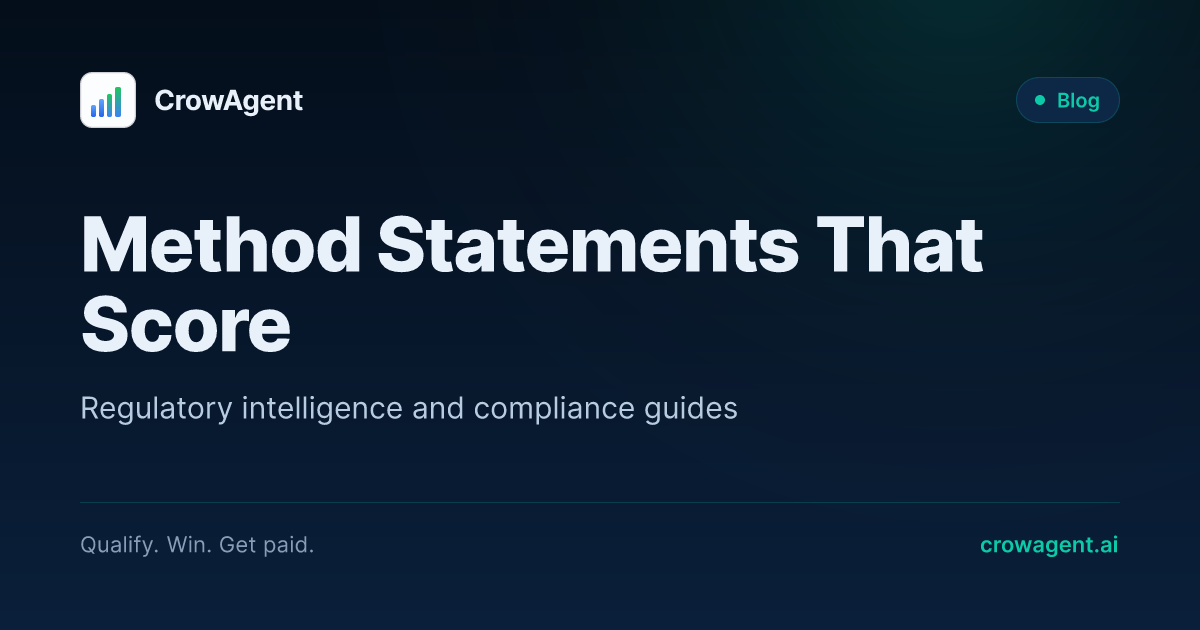
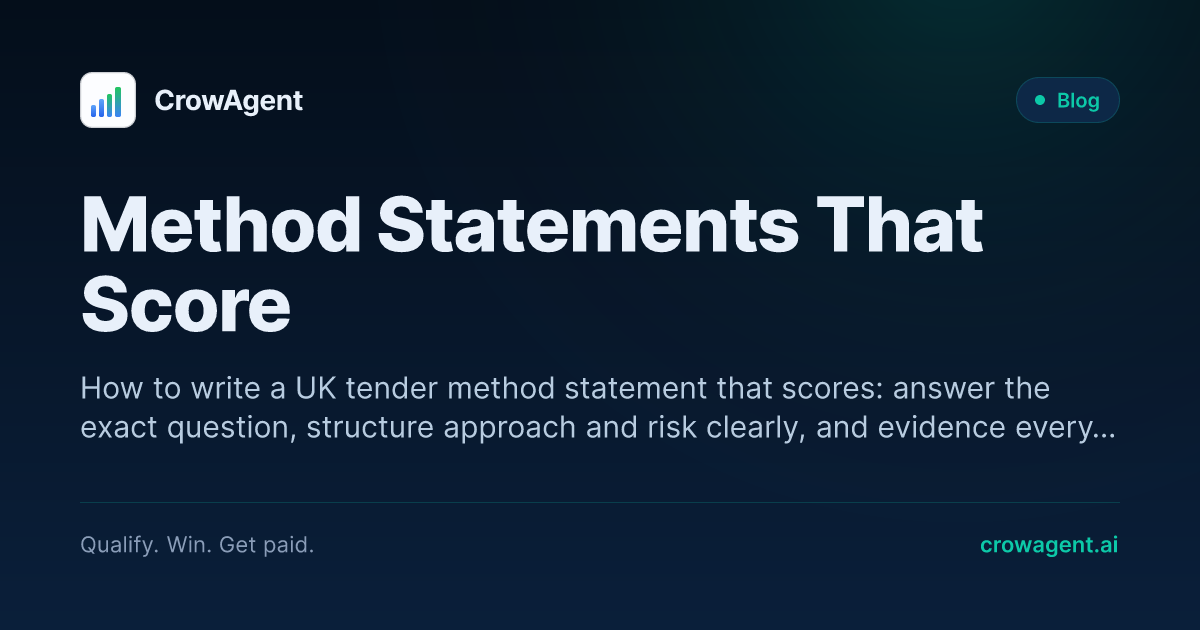
fix(seo): 8 blog cards shared one generic subtitle; 7 pages ignored their own card
Three defects, all in how OG cards are wired to pages.

1. Attribute order broke description extraction on every blog post.
   extractMetaDescription() required `name="description"` immediately followed
   by `content="…"`. All eight blog posts write content first
   (`<meta content="…" name="description">`), so extraction failed on all eight
   and each card fell back to the same line: "Regulatory intelligence and
   compliance guides". Eight posts, eight topics, one identical subtitle.
   Attribute order is not something HTML guarantees, so matching on it was the
   bug. Now parses the tag's attributes, accepts name or property in any order,
   and falls back to og:description — still the page's own copy — before any
   generic string. Verified: 0 of 12 sampled pages now fall back.

2. Seven pages ignored a purpose-built card that was generated every build and
   shipped unreferenced. Five blog posts pointed at crowmark.png — a card whose
   headline reads "CrowMark" — while their own titled cards sat unused:
   find-first-public-sector-contract, frameworks-and-dps-explained,
   method-statement-that-scores, private-sector-rfp-pqq-guide,
   procurement-act-2023-sme-guide. blog/index and glossary/index used the
   generic logo card while "Regulatory Blog" and "UK Procurement Glossary"
   cards went unused. Repointed; the JSON-LD publisher logo is untouched.

3. Three copies of og-image.png existed and all three shipped. Verified by md5:
[…]

Changed region(s): [[0.0617, 0.3016, 0.8325, 0.573], [0.0617, 0.6032, 0.925, 0.6937]]

diff --git a/blog/procurement-act-2023-sme-guide.html b/blog/procurement-act-2023-sme-guide.html
@@ -20,12 +20,12 @@
 <meta content="What the Procurement Act 2023 changes for SME bid teams: MAT replaces MEAT, one Central Digital Platform registration, and far more published information." property="og:description"/>
 <meta content="article" property="og:type"/>
 <meta content="https://crowagent.ai/blog/procurement-act-2023-sme-guide" property="og:url"/>
-<meta content="https://crowagent.ai/Assets/og/crowmark.png" property="og:image"/>
+<meta content="https://crowagent.ai/Assets/og/blog-procurement-act-2023-sme-guide.png" property="og:image"/>
 <meta content="1200" property="og:image:width"/>
 <meta content="630" property="og:image:height"/>
 <meta content="The Procurement Act 2023: what SME bidders actually need to know" property="og:image:alt"/>
 <meta content="summary_large_image" name="twitter:card"/>
-<meta content="https://crowagent.ai/Assets/og/crowmark.png" name="twitter:image"/>
+<meta content="https://crowagent.ai/Assets/og/blog-procurement-act-2023-sme-guide.png" name="twitter:image"/>
 
 <meta content="/browserconfig.xml" name="msapplication-config"/>
 <meta content="dark" name="color-scheme"/>
@@ -52,7 +52,7 @@
 <link crossorigin="" href="https://api.brevo.com" rel="preconnect"/>
 <link crossorigin="" href="https://challenges.cloudflare.com" rel="preconnect"/>
 <link href="/crowagent-brand-tokens.css?v=20260729b" rel="stylesheet"/>
-<script data-ca-blogld="" type="application/ld+json">{"@context":"https://schema.org","@type":"BlogPosting","headline":"The Procurement Act 2023: what SME bidders actually need to know","description":"A plain-English guide to the Procurement Act 2023 for SME bidders: the February 2025 go-live, MAT replacing MEAT, the Central Digital Platform and published KPIs.","mainEntityOfPage":{"@type":"WebPage","@id":"https://crowagent.ai/blog/procurement-act-2023-sme-guide"},"datePublished":"2026-07-26","dateModified":"2026-07-26","image":"https://crowagent.ai/Assets/og/crowmark.png","author":{"@type":"Organization","name":"CrowAgent","url":"https://crowagent.ai/"},"publisher":{"@type":"Organization","name":"CrowAgent","logo":{"@type":"ImageObject","url":"https://crowagent.ai/Assets/og-image.png"}}}</script>
+<script data-ca-blogld="" type="application/ld+json">{"@context":"https://schema.org","@type":"BlogPosting","headline":"The Procurement Act 2023: what SME bidders actually need to know","description":"A plain-English guide to the Procurement Act 2023 for SME bidders: the February 2025 go-live, MAT replacing MEAT, the Central Digital Platform and published KPIs.","mainEntityOfPage":{"@type":"WebPage","@id":"https://crowagent.ai/blog/procurement-act-2023-sme-guide"},"datePublished":"2026-07-26","dateModified":"2026-07-26","image":"https://crowagent.ai/Assets/og/blog-procurement-act-2023-sme-guide.png","author":{"@type":"Organization","name":"CrowAgent","url":"https://crowagent.ai/"},"publisher":{"@type":"Organization","name":"CrowAgent","logo":{"@type":"ImageObject","url":"https://crowagent.ai/Assets/og-image.png"}}}</script>
 <script type="application/ld+json">{"@context":"https://schema.org","@type":"FAQPage","mainEntity":[{"@type":"Question","name":"When did the Procurement Act 2023 come into force?","acceptedAnswer":{"@type":"Answer","text":"The Procurement Act 2023 went live on 24 February 2025. It applies to covered procurements started on or after that date. Procurements started under the old Public Contracts Regulations 2015 continue under those older rules until they conclude."}},{"@type":"Question","name":"What is the difference between MAT and MEAT?","acceptedAnswer":{"@type":"Answer","text":"MEAT stood for Most Economically Advantageous Tender, the award test under the Public Contracts Regulations 2015. The Procurement Act 2023 replaces it with MAT, the Most Advantageous Tender. The wording drops the word economically to make clear that award can weigh wider value, including social value and quality, not just price."}},{"@type":"Question","name":"Do contracting authorities have to publish KPIs?","acceptedAnswer":{"@type":"Answer","text":"For public contracts with an estimated value above 5 million pounds, section 52 of the Procurement Act 2023 requires the contracting authority to set and publish at least three key performance indicators and to assess and publish performance against them at least once a year. Some contract types, such as frameworks, are exempt."}},{"@type":"Question","name":"Does the Procurement Act 2023 help SMEs?","acceptedAnswer":{"@type":"Answer","text":"Yes. Section 12 requires contracting authorities to have regard to the particular barriers small and medium enterprises may face and to consider whether those barriers can be removed or reduced. The Central Digital Platform also lets suppliers register core details once and reuse them, and 30-day payment terms are implied into public contracts and flow down the supply chain."}}]}</script>
 <style>
 .blog-stripe-toc{margin:0 0 3rem;padding:1.75rem 2rem;background:rgba(4,14,26,.05);border:1px solid rgba(4,14,26,.06);border-radius:1.5rem;}

diff --git a/blog/private-sector-rfp-pqq-guide.html b/blog/private-sector-rfp-pqq-guide.html
@@ -18,12 +18,12 @@
 <meta content="A practical guide to responding to corporate RFPs and PQQs in the UK private sector: how they differ from public tenders and what buyers actually score." property="og:description"/>
 <meta content="article" property="og:type"/>
 <meta content="https://crowagent.ai/blog/private-sector-rfp-pqq-guide" property="og:url"/>
-<meta content="https://crowagent.ai/Assets/og/crowmark.png" property="og:image"/>
+<meta content="https://crowagent.ai/Assets/og/blog-private-sector-rfp-pqq-guide.png" property="og:image"/>
 <meta content="1200" property="og:image:width"/>
 <meta content="630" property="og:image:height"/>
 <meta content="Private sector RFPs and PQQs" property="og:image:alt"/>
 <meta content="summary_large_image" name="twitter:card"/>
-<meta content="https://crowagent.ai/Assets/og/crowmark.png" name="twitter:image"/>
+<meta content="https://crowagent.ai/Assets/og/blog-private-sector-rfp-pqq-guide.png" name="twitter:image"/>
 
 <meta content="/browserconfig.xml" name="msapplication-config"/>
 <meta content="dark" name="color-scheme"/>
@@ -50,7 +50,7 @@
 <link crossorigin="" href="https://api.brevo.com" rel="preconnect"/>
 <link crossorigin="" href="https://challenges.cloudflare.com" rel="preconnect"/>
 <link href="/crowagent-brand-tokens.css?v=20260729b" rel="stylesheet"/>
-<script data-ca-blogld="" type="application/ld+json">{"@context":"https://schema.org","@type":"BlogPosting","headline":"Responding to corporate RFPs and PQQs in the private sector","description":"How private sector RFPs and PQQs differ from public procurement, what corporate buyers actually score, and how to respond well when there is no statutory rulebook.","mainEntityOfPage":{"@type":"WebPage","@id":"https://crowagent.ai/blog/private-sector-rfp-pqq-guide"},"datePublished":"2026-07-29","dateModified":"2026-07-29","image":"https://crowagent.ai/Assets/og/crowmark.png","author":{"@type":"Organization","name":"CrowAgent","url":"https://crowagent.ai/"},"publisher":{"@type":"Organization","name":"CrowAgent","logo":{"@type":"ImageObject","url":"https://crowagent.ai/Assets/og-image.png"}}}</script>
+<script data-ca-blogld="" type="application/ld+json">{"@context":"https://schema.org","@type":"BlogPosting","headline":"Responding to corporate RFPs and PQQs in the private sector","description":"How private sector RFPs and PQQs differ from public procurement, what corporate buyers actually score, and how to respond well when there is no statutory rulebook.","mainEntityOfPage":{"@type":"WebPage","@id":"https://crowagent.ai/blog/private-sector-rfp-pqq-guide"},"datePublished":"2026-07-29","dateModified":"2026-07-29","image":"https://crowagent.ai/Assets/og/blog-private-sector-rfp-pqq-guide.png","author":{"@type":"Organization","name":"CrowAgent","url":"https://crowagent.ai/"},"publisher":{"@type":"Organization","name":"CrowAgent","logo":{"@type":"ImageObject","url":"https://crowagent.ai/Assets/og-image.png"}}}</script>
 <script type="application/ld+json">{"@context":"https://schema.org","@type":"FAQPage","mainEntity":[{"@type":"Question","name":"Do the same rules apply to private sector RFPs as public sector tenders?","acceptedAnswer":{"@type":"Answer","text":"No. The Procurement Act 2023 and related policy notes such as PPN 002 apply to public contracting authorities, not to private companies buying goods or services. A private sector RFP is governed by whatever process the buying company chooses to run and the contract terms it sets, not by statutory procurement law."}},{"@type":"Question","name":"What is a PQQ in the private sector?","acceptedAnswer":{"@type":"Answer","text":"A Pre-Qualification Questionnaire in a corporate context is a vendor onboarding and due diligence stage, checking financial stability, insurance, references, data handling and, on regulated or higher-risk categories, compliance policies, before a supplier is invited to bid or added to an approved supplier list."}},{"@type":"Question","name":"How is a private sector RFP scored?","acceptedAnswer":{"@type":"Answer","text":"Most corporate RFPs are scored against an internally weighted matrix similar in principle to public sector evaluation, typically covering quality of approach, price, delivery capability, risk and references, though the exact weighting and criteria are set entirely by the buying organisation and rarely published in full."}},{"@type":"Question","name":"Should I build a relationship before an RFP is issued?","acceptedAnswer":{"@type":"Answer","text":"Yes, where you can do so appropriately. Private sector buyers often run informal supplier engagement or market conversations before a formal RFP, and a supplier who understands the buyer's priorities ahead of time can write a sharper, better-targeted response than one seeing the requirement for the first time."}}]}</script>
 <style>
 .blog-stripe-toc{margin:0 0 3rem;padding:1.75rem 2rem;background:rgba(4,14,26,.05);border:1px solid rgba(4,14,26,.06);border-radius:1.5rem;}

diff --git a/blog/find-first-public-sector-contract.html b/blog/find-first-public-sector-contract.html
@@ -20,12 +20,12 @@
 <meta content="Where to look, how to read a tender, SQ versus ITT, the bid or no-bid call, and the first-timer mistakes that lose winnable public sector contracts." property="og:description"/>
 <meta content="article" property="og:type"/>
 <meta content="https://crowagent.ai/blog/find-first-public-sector-contract" property="og:url"/>
-<meta content="https://crowagent.ai/Assets/og/crowmark.png" property="og:image"/>
+<meta content="https://crowagent.ai/Assets/og/blog-find-first-public-sector-contract.png" property="og:image"/>
 <meta content="1200" property="og:image:width"/>
 <meta content="630" property="og:image:height"/>
 <meta content="How to find and win your first UK public sector contract" property="og:image:alt"/>
 <meta content="summary_large_image" name="twitter:card"/>
-<meta content="https://crowagent.ai/Assets/og/crowmark.png" name="twitter:image"/>
+<meta content="https://crowagent.ai/Assets/og/blog-find-first-public-sector-contract.png" name="twitter:image"/>
 
 <meta content="/browserconfig.xml" name="msapplication-config"/>
 <meta content="dark" name="color-scheme"/>
@@ -52,7 +52,7 @@
 <link crossorigin="" href="https://api.brevo.com" rel="preconnect"/>
 <link crossorigin="" href="https://challenges.cloudflare.com" rel="preconnect"/>
 <link href="/crowagent-brand-tokens.css?v=20260729b" rel="stylesheet"/>
-<script data-ca-blogld="" type="application/ld+json">{"@context":"https://schema.org","@type":"BlogPosting","headline":"How to find and win your first UK public sector contract","description":"Where to look for UK public sector tenders, how to read one, SQ versus ITT, the bid or no-bid call, and the first-timer mistakes that lose winnable work.","mainEntityOfPage":{"@type":"WebPage","@id":"https://crowagent.ai/blog/find-first-public-sector-contract"},"datePublished":"2026-07-26","dateModified":"2026-07-26","image":"https://crowagent.ai/Assets/og/crowmark.png","author":{"@type":"Organization","name":"CrowAgent","url":"https://crowagent.ai/"},"publisher":{"@type":"Organization","name":"CrowAgent","logo":{"@type":"ImageObject","url":"https://crowagent.ai/Assets/og-image.png"}}}</script>
+<script data-ca-blogld="" type="application/ld+json">{"@context":"https://schema.org","@type":"BlogPosting","headline":"How to find and win your first UK public sector contract","description":"Where to look for UK public sector tenders, how to read one, SQ versus ITT, the bid or no-bid call, and the first-timer mistakes that lose winnable work.","mainEntityOfPage":{"@type":"WebPage","@id":"https://crowagent.ai/blog/find-first-public-sector-contract"},"datePublished":"2026-07-26","dateModified":"2026-07-26","image":"https://crowagent.ai/Assets/og/blog-find-first-public-sector-contract.png","author":{"@type":"Organization","name":"CrowAgent","url":"https://crowagent.ai/"},"publisher":{"@type":"Organization","name":"CrowAgent","logo":{"@type":"ImageObject","url":"https://crowagent.ai/Assets/og-image.png"}}}</script>
 <script type="application/ld+json">{"@context":"https://schema.org","@type":"FAQPage","mainEntity":[{"@type":"Question","name":"Where do I find UK public sector contracts?","acceptedAnswer":{"@type":"Answer","text":"Higher-value opportunities at or above the procurement thresholds are published on the Find a Tender service, where the threshold for central government goods and services is around 139,688 pounds including VAT. Lower-value opportunities have historically been advertised on Contracts Finder, where central government contracts from 12,000 pounds appear. Both connect to the Central Digital Platform under the Procurement Act 2023."}},{"@type":"Question","name":"What is the difference between an SQ and an ITT?","acceptedAnswer":{"@type":"Answer","text":"A Selection Questionnaire, or SQ, is a pass or fail pre-qualification stage that checks you meet minimum standards on finance, insurance, relevant experience and exclusion grounds. An Invitation to Tender, or ITT, is the scored bid itself, evaluated on quality, price and often social value. Single-stage open procedures combine both into one submission."}},{"@type":"Question","name":"How much does social value count in a bid?","acceptedAnswer":{"@type":"Answer","text":"Under PPN 002, in-scope central government contracts must apply a minimum social value weighting of 10 percent of the total score. It is a scored section, not a box-ticking annex, so it can decide a close competition."}},{"@type":"Question","name":"Should I bid for every contract I can find?","acceptedAnswer":{"@type":"Answer","text":"No. Use a bid or no-bid decision to weigh fit, capacity, the strength of any incumbent, the resource cost and your realistic chance of winning. Writing fewer, better-targeted bids wins more work than spreading thin effort across everything."}}]}</script>
 <style>
 .blog-stripe-toc{margin:0 0 3rem;padding:1.75rem 2rem;background:rgba(4,14,26,.05);border:1px solid rgba(4,14,26,.06);border-radius:1.5rem;}

diff --git a/blog/method-statement-that-scores.html b/blog/method-statement-that-scores.html
@@ -18,12 +18,12 @@
 <meta content="A practical guide to method statements that score in UK tenders: structure, evidence, risk, and the mistakes that quietly cost you marks." property="og:description"/>
 <meta content="article" property="og:type"/>
 <meta content="https://crowagent.ai/blog/method-statement-that-scores" property="og:url"/>
-<meta content="https://crowagent.ai/Assets/og/crowmark.png" property="og:image"/>
+<meta content="https://crowagent.ai/Assets/og/blog-method-statement-that-scores.png" property="og:image"/>
 <meta content="1200" property="og:image:width"/>
 <meta content="630" property="og:image:height"/>
 <meta content="Method statements that score" property="og:image:alt"/>
 <meta content="summary_large_image" name="twitter:card"/>
-<meta content="https://crowagent.ai/Assets/og/crowmark.png" name="twitter:image"/>
+<meta content="https://crowagent.ai/Assets/og/blog-method-statement-that-scores.png" name="twitter:image"/>
 
 <meta content="/browserconfig.xml" name="msapplication-config"/>
 <meta content="dark" name="color-scheme"/>
@@ -50,7 +50,7 @@
 <link crossorigin="" href="https://api.brevo.com" rel="preconnect"/>
 <link crossorigin="" href="https://challenges.cloudflare.com" rel="preconnect"/>
 <link href="/crowagent-brand-tokens.css?v=20260729b" rel="stylesheet"/>
-<script data-ca-blogld="" type="application/ld+json">{"@context":"https://schema.org","@type":"BlogPosting","headline":"How to write a method statement that actually scores","description":"How to write a UK tender method statement that scores: answer the exact question, structure approach and risk clearly, and evidence every claim you make.","mainEntityOfPage":{"@type":"WebPage","@id":"https://crowagent.ai/blog/method-statement-that-scores"},"datePublished":"2026-07-29","dateModified":"2026-07-29","image":"https://crowagent.ai/Assets/og/crowmark.png","author":{"@type":"Organization","name":"CrowAgent","url":"https://crowagent.ai/"},"publisher":{"@type":"Organization","name":"CrowAgent","logo":{"@type":"ImageObject","url":"https://crowagent.ai/Assets/og-image.png"}}}</script>
+<script data-ca-blogld="" type="application/ld+json">{"@context":"https://schema.org","@type":"BlogPosting","headline":"How to write a method statement that actually scores","description":"How to write a UK tender method statement that scores: answer the exact question, structure approach and risk clearly, and evidence every claim you make.","mainEntityOfPage":{"@type":"WebPage","@id":"https://crowagent.ai/blog/method-statement-that-scores"},"datePublished":"2026-07-29","dateModified":"2026-07-29","image":"https://crowagent.ai/Assets/og/blog-method-statement-that-scores.png","author":{"@type":"Organization","name":"CrowAgent","url":"https://crowagent.ai/"},"publisher":{"@type":"Organization","name":"CrowAgent","logo":{"@type":"ImageObject","url":"https://crowagent.ai/Assets/og-image.png"}}}</script>
 <script type="application/ld+json">{"@context":"https://schema.org","@type":"FAQPage","mainEntity":[{"@type":"Question","name":"What is a method statement in a tender?","acceptedAnswer":{"@type":"Answer","text":"A method statement is the scored section of a tender where you explain, in specific detail, how you will deliver the contract if you win it. It is marked against a published evaluation matrix, usually as part of the quality score, and sits alongside price and, in the public sector, social value."}},{"@type":"Question","name":"How long should a method statement be?","acceptedAnswer":{"@type":"Answer","text":"Whatever length the tender sets, and no longer. Buyers publish a word or page limit for each question, and evaluators are instructed to stop reading, or to disregard content, past that limit. Spend the words you are given on evidence and specifics, not on introductions and restating the brief at length."}},{"@type":"Question","name":"Should I use headings and bullet points in a method statement?","acceptedAnswer":{"@type":"Answer","text":"Yes, unless the tender instructions say otherwise. Evaluators mark many bids under time pressure. Clear headings that mirror the question, short paragraphs and bullet points for sequential steps make it easier for an evaluator to find the marks you have earned and award them."}},{"@type":"Question","name":"Can I reuse a method statement from a previous bid?","acceptedAnswer":{"@type":"Answer","text":"Only as a starting point, never as a final answer. Every buyer asks the question differently and every contract has different risks, so a reused answer that does not reference this specific requirement, site or service reads as generic and scores lower than a response written for the question actually asked."}}]}</script>
 <style>
 .blog-stripe-toc{margin:0 0 3rem;padding:1.75rem 2rem;background:rgba(4,14,26,.05);border:1px solid rgba(4,14,26,.06);border-radius:1.5rem;}

diff --git a/blog/frameworks-and-dps-explained.html b/blog/frameworks-and-dps-explained.html
@@ -18,12 +18,12 @@
 <meta content="A plain-English guide to UK public sector frameworks and DPS: what they are, how CCS and G-Cloud work, and how call-off competitions are run." property="og:description"/>
 <meta content="article" property="og:type"/>
 <meta content="https://crowagent.ai/blog/frameworks-and-dps-explained" property="og:url"/>
-<meta content="https://crowagent.ai/Assets/og/crowmark.png" property="og:image"/>
+<meta content="https://crowagent.ai/Assets/og/blog-frameworks-and-dps-explained.png" property="og:image"/>
 <meta content="1200" property="og:image:width"/>
 <meta content="630" property="og:image:height"/>
 <meta content="Frameworks and DPS explained" property="og:image:alt"/>
 <meta content="summary_large_image" name="twitter:card"/>
-<meta content="https://crowagent.ai/Assets/og/crowmark.png" name="twitter:image"/>
+<meta content="https://crowagent.ai/Assets/og/blog-frameworks-and-dps-explained.png" name="twitter:image"/>
 
 <meta content="/browserconfig.xml" name="msapplication-config"/>
 <meta content="dark" name="color-scheme"/>
@@ -50,7 +50,7 @@
 <link crossorigin="" href="https://api.brevo.com" rel="preconnect"/>
 <link crossorigin="" href="https://challenges.cloudflare.com" rel="preconnect"/>
 <link href="/crowagent-brand-tokens.css?v=20260729b" rel="stylesheet"/>
-<script data-ca-blogld="" type="application/ld+json">{"@context":"https://schema.org","@type":"BlogPosting","headline":"Frameworks and DPS explained: G-Cloud, CCS and how call-offs work","description":"G-Cloud, CCS frameworks and Dynamic Purchasing Systems explained: how to get onto one, how call-off competitions work, and what changed under the Procurement Act 2023.","mainEntityOfPage":{"@type":"WebPage","@id":"https://crowagent.ai/blog/frameworks-and-dps-explained"},"datePublished":"2026-07-29","dateModified":"2026-07-29","image":"https://crowagent.ai/Assets/og/crowmark.png","author":{"@type":"Organization","name":"CrowAgent","url":"https://crowagent.ai/"},"publisher":{"@type":"Organization","name":"CrowAgent","logo":{"@type":"ImageObject","url":"https://crowagent.ai/Assets/og-image.png"}}}</script>
+<script data-ca-blogld="" type="application/ld+json">{"@context":"https://schema.org","@type":"BlogPosting","headline":"Frameworks and DPS explained: G-Cloud, CCS and how call-offs work","description":"G-Cloud, CCS frameworks and Dynamic Purchasing Systems explained: how to get onto one, how call-off competitions work, and what changed under the Procurement Act 2023.","mainEntityOfPage":{"@type":"WebPage","@id":"https://crowagent.ai/blog/frameworks-and-dps-explained"},"datePublished":"2026-07-29","dateModified":"2026-07-29","image":"https://crowagent.ai/Assets/og/blog-frameworks-and-dps-explained.png","author":{"@type":"Organization","name":"CrowAgent","url":"https://crowagent.ai/"},"publisher":{"@type":"Organization","name":"CrowAgent","logo":{"@type":"ImageObject","url":"https://crowagent.ai/Assets/og-image.png"}}}</script>
 <script type="application/ld+json">{"@context":"https://schema.org","@type":"FAQPage","mainEntity":[{"@type":"Question","name":"What is the difference between a framework and a DPS?","acceptedAnswer":{"@type":"Answer","text":"A framework agreement is a list of suppliers appointed after a single competition, usually closed to new entrants until it is re-run, typically every few years. A Dynamic Purchasing System, or DPS, is a fully electronic, open list that qualified suppliers can join at any point during its life, not only at the outset."}},{"@type":"Question","name":"What is G-Cloud?","acceptedAnswer":{"@type":"Answer","text":"G-Cloud is a Crown Commercial Service framework for buying cloud hosting, software and support services. Public sector buyers search and select services through the Digital Marketplace rather than running a full tender for every purchase."}},{"@type":"Question","name":"How does a call-off competition work?","acceptedAnswer":{"@type":"Answer","text":"Once a buyer has chosen a framework or DPS, they either place a direct award with a single supplier where the framework rules allow it, or run a mini-competition, inviting some or all appointed suppliers to submit a further, shorter bid against the specific requirement, which is then scored and awarded."}},{"@type":"Question","name":"Do I need to be a large company to get onto a framework?","acceptedAnswer":{"@type":"Answer","text":"No. Frameworks and DPS are structured in lots by size, specialism or geography specifically so that SMEs can compete for relevant lots rather than against every supplier in the market. Many CCS frameworks and G-Cloud in particular have a strong SME presence."}}]}</script>
 <style>
 .blog-stripe-toc{margin:0 0 3rem;padding:1.75rem 2rem;background:rgba(4,14,26,.05);border:1px solid rgba(4,14,26,.06);border-radius:1.5rem;}

diff --git a/scripts/generate-og-images.js b/scripts/generate-og-images.js
@@ -222,10 +222,34 @@ function extractTitle(html) {
   return decodeEntities(m[1].trim()).replace(/\s*[-|]\s*CrowAgent.*$/i, "").trim();
 }
 
+// Read a <meta> value without caring what order the attributes are written in.
+//
+// The previous regex required `name="description"` immediately followed by
+// `content="…"`. Measured 2026-07-30: ALL EIGHT blog posts write content first
+// (`<meta content="…" name="description">`), so extraction failed on every one and
+// each card fell back to the same generic subtitle, "Regulatory intelligence and
+// compliance guides" — eight posts, eight different topics, one identical line.
+//
+// Attribute order is not something HTML guarantees, so matching on it was the bug.
+// Parse the tag and look at its attributes instead.
+function extractMetaContent(html, key) {
+  const wanted = key.toLowerCase();
+  for (const tag of html.match(/<meta\b[^>]*>/gi) ?? []) {
+    const attrs = {};
+    for (const [, k, v] of tag.matchAll(/([\w:-]+)\s*=\s*["']([^"']*)["']/g)) {
+      attrs[k.toLowerCase()] = v;
+    }
+    const id = (attrs.name ?? attrs.property ?? "").toLowerCase();
+    if (id === wanted && attrs.content) return decodeEntities(attrs.content.trim());
+  }
+  return null;
+}
+
 function extractMetaDescription(html) {
-  const m = /<meta\s+name=["']description["']\s+content=["']([^"']*)["']/i.exec(html);
-  if (!m) return null;
-  return decodeEntities(m[1].trim());
+  // Prefer the page's own description; fall back to og:description, which some
+  // pages word differently but which is still that page's copy rather than a
+  // generic line written here.
+  return extractMetaContent(html, "description") ?? extractMetaContent(html, "og:description");
 }
 
 // Heuristic: assign a product accent based on the slug.
@@ -592,7 +616,30 @@ async function main() {
     ...discoverChangelogPages(repoRoot),
   ].map((p) => ({
     slug: p.slug,
-    title: clip(p.title, 90, "CrowAgent"),
+    // Title budget is 72, not 90, because the HEADLINE is what overflows the card.
+    // Measured off the rendered PNGs, not estimated: the headline sets at 76px and
+    // wraps at roughly 24 characters per line, the subtitle at 30px and roughly 68.
+    // Three headline lines plus two subtitle lines is the tallest layout that keeps
+    // the divider and the footer on the card. 90 characters is four headline lines,
+    // which pushes the footer off the bottom edge — satori clips rather than grows,
+    // so it would have failed silently. 72 caps the headline at three lines.
+    //
+    // This is not hypothetical — one card was already in the degenerate state. The
+    // changelog title "MP1: Marketing surface (tools hub, methodology pages, cookie
+    // preferences, changelog)" is 84 characters, so it rendered four headline lines:
+    // the headline crowded the brand row above it, the subtitle sat on the divider,
+    // and the footer was jammed against the bottom edge with no padding. Compared
+    // before and after by reading both PNGs. Nothing was cut off the canvas, but the
+    // layout had lost every bit of its breathing room.
+    //
+    // Titles come from changelog.xml as well as from page <title> tags, which is why
+    // measuring only the HTML missed it. The longest HTML title in use is 66
+    // characters (blog/social-value-portal-vs-crowmark) and is unaffected.
+    //
+    // An earlier attempt shortened the SUBTITLE when the headline was long. That
+    // was the wrong lever: at 68 characters per line, cutting 140 to 116 dropped
+    // words without dropping a line, so it lost information and bought no space.
+    title: clip(p.title, 72, "CrowAgent"),
     subtitle: clip(p.subtitle, 140, ""),
     product: p.product ?? inferProduct(p.slug, null),
   }));

diff --git a/scripts/build-dist.js b/scripts/build-dist.js
@@ -150,6 +150,17 @@ const ASSET_DENY_DIRS = [
 const ASSET_DENY_FILES = new Set([
   "Assets/shots/tablet/crowmark-tablet-dark-02.png",
   "Assets/shots/mobile/crowmark-mobile-LIGHT-01.png",
+
+  // Three copies of "og-image.png" existed and all three shipped (2026-07-30):
+  //   Assets/og-image.png       100,135 B  referenced by 21 pages   <- the real one
+  //   Assets/og/og-image.png    100,135 B  referenced by 0          <- byte-identical
+  //   og-image.png (repo root)   27,658 B  referenced by 0          <- different file
+  // Verified by md5: the first two are the same bytes, the root one is not the same
+  // image at all. Neither unreferenced copy is reachable from any HTML, CSS, JS or
+  // JSON, so both are withheld. Keeping the referenced Assets/og-image.png exactly
+  // where the 21 pages expect it.
+  "Assets/og/og-image.png",
+  "og-image.png",
 ]);
 
 let deniedFiles = 0, deniedBytes = 0;
@@ -226,6 +237,14 @@ for (const name of fs.readdirSync(ROOT)) {
   if (/\.config\.[cm]?js$/.test(name)) continue;
   const ok = ROOT_EXACT.includes(name) || ROOT_EXTS.includes(path.extname(name));
   if (!ok) continue;
+  // Root-level files bypass copyDir entirely, so they need the same deny check or
+  // an ASSET_DENY_FILES entry for one silently does nothing. Found the hard way:
+  // adding "og-image.png" to the deny set left it still shipping.
+  if (ASSET_DENY_FILES.has(name)) {
+    deniedFiles += 1;
+    deniedBytes += fs.statSync(full).size;
+    continue;
+  }
   fs.copyFileSync(full, path.join(DIST, name));
   copied += 1;
 }

diff --git a/blog/index.html b/blog/index.html
@@ -87,7 +87,7 @@
 <meta property="og:title" content="Regulatory Blog | UK Procurement Guides for Suppliers | CrowAgent">
 <meta property="og:description" content="Plain-English guides on PPN 002 social value and UK public procurement. Statute-cited resources for UK bidders from CrowAgent.">
 <meta property="og:url" content="https://crowagent.ai/blog">
-<meta property="og:image" content="https://crowagent.ai/Assets/og-image.png">
+<meta property="og:image" content="https://crowagent.ai/Assets/og/blog.png">
   <meta property="og:image:alt" content="Regulatory Blog | UK Procurement Guides for Suppliers">
 <meta property="og:image:width" content="1200">
 <meta property="og:image:height" content="630">
@@ -96,7 +96,7 @@
 <meta name="twitter:site" content="@CrowAgentLtd">
 <meta name="twitter:title" content="Regulatory Blog | UK Procurement Guides for Suppliers | CrowAgent">
 <meta name="twitter:description" content="Plain-English guides on PPN 002 social value and UK public procurement. Statute-cited resources for UK bidders from CrowAgent.">
-<meta name="twitter:image" content="https://crowagent.ai/Assets/og-image.png">
+<meta name="twitter:image" content="https://crowagent.ai/Assets/og/blog.png">
 </head>
 <body>
 <div class="grain" aria-hidden="true"></div>

diff --git a/glossary/index.html b/glossary/index.html
@@ -120,7 +120,7 @@
 <meta property="og:title" content="UK Procurement Glossary | CrowAgent">
 <meta property="og:description" content="Plain-English definitions of UK public procurement and bidding terms: PPN 002, Find a Tender, frameworks, MAT, standstill, TUPE and more.">
 <meta property="og:url" content="https://crowagent.ai/glossary">
-<meta property="og:image" content="https://crowagent.ai/Assets/og-image.png">
+<meta property="og:image" content="https://crowagent.ai/Assets/og/glossary-index.png">
   <meta property="og:image:alt" content="UK Procurement Glossary">
 <meta property="og:image:width" content="1200">
 <meta property="og:image:height" content="630">
@@ -129,7 +129,7 @@
 <meta name="twitter:site" content="@CrowAgentLtd">
 <meta name="twitter:title" content="UK Procurement Glossary | CrowAgent">
 <meta name="twitter:description" content="Plain-English definitions of UK public procurement and bidding terms: PPN 002, Find a Tender, frameworks, MAT, standstill, TUPE and more.">
-<meta name="twitter:image" content="https://crowagent.ai/Assets/og-image.png">
+<meta name="twitter:image" content="https://crowagent.ai/Assets/og/glossary-index.png">
 </head>
 <body>
 <div class="grain" aria-hidden="true"></div>
